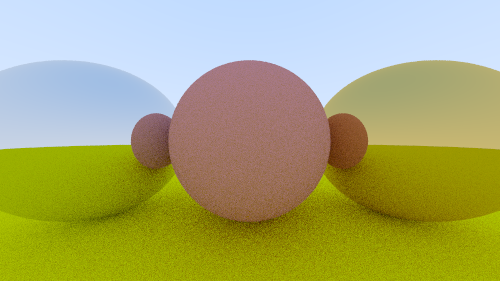
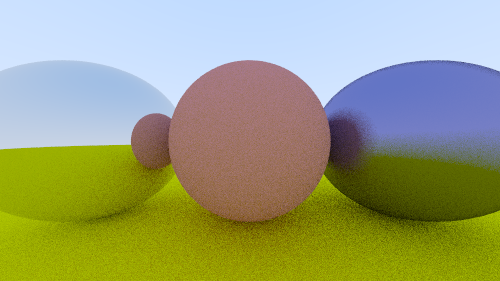
added blurred metal

diff --git a/COSC3P98_FinalProject/Source.cpp b/COSC3P98_FinalProject/Source.cpp
@@ -81,10 +81,10 @@ int main()
 	vec3 lower_left = origin - horizontal / 2 - vertical / 2 - vec3(0, 0, focal_length);
 
 	//materials
-	material* material_ground = new lambertian(color(0.8, 0.8, 0.0));
-	material* material_center = new lambertian(color(0.7, 0.3, 0.3));
-	material* material_left = new metal(color(0.8, 0.8, 0.8));
-	material* material_right = new metal(color(0.8, 0.6, 0.2));
+	material* material_ground = new lambertian(vec3(0.8, 0.8, 0.0));
+	material* material_center = new lambertian(vec3(0.7, 0.3, 0.3));
+	material* shnyMtl = new metal(vec3(0.8, 0.8, 0.8));
+	material* blryMtl = new blurryMetal(vec3(0.3, 0.3, 0.6), 0.3);
 
 	//objects
 
@@ -92,8 +92,8 @@ int main()
 
 	objList.add(new sphere(vec3(0.0, -100.5, -1.0), 100.0, material_ground));
 	objList.add(new sphere(vec3(0.0, 0.0, -1.0), 0.5, material_center));
-	objList.add(new sphere(vec3(-1.0, 0.0, -1.0), 0.5, material_left));
-	objList.add(new sphere(vec3(1.0, 0.0, -1.0), 0.5, material_right));
+	objList.add(new sphere(vec3(-1.0, 0.0, -1.0), 0.5, shnyMtl));
+	objList.add(new sphere(vec3(1.0, 0.0, -1.0), 0.5, blryMtl));
 
 	int index = 0;
 	for (int j = imageHeight - 1; j >= 0; --j)

diff --git a/COSC3P98_FinalProject/objects.h b/COSC3P98_FinalProject/objects.h
@@ -63,6 +63,23 @@ public:
 	}
 };
 
+class blurryMetal : public material {
+public:
+	vec3 color;
+	float blur;
+	blurryMetal(const vec3& c, float b) {
+		color = c;
+		blur = b;
+	}
+
+	virtual bool scatter(const ray& r, const intersection& intrsct, vec3& attenuation, ray& scattered) override {
+		vec3 reflected = reflect(normalize(r.getDirection()), intrsct.norm) + blur * randomUnitVec3();
+		scattered = ray(intrsct.point, reflected);
+		attenuation = color;
+		return (dot(scattered.getDirection(), intrsct.norm) > 0);
+	}
+};
+
 class object {
 public:
 	vec3 centre;
